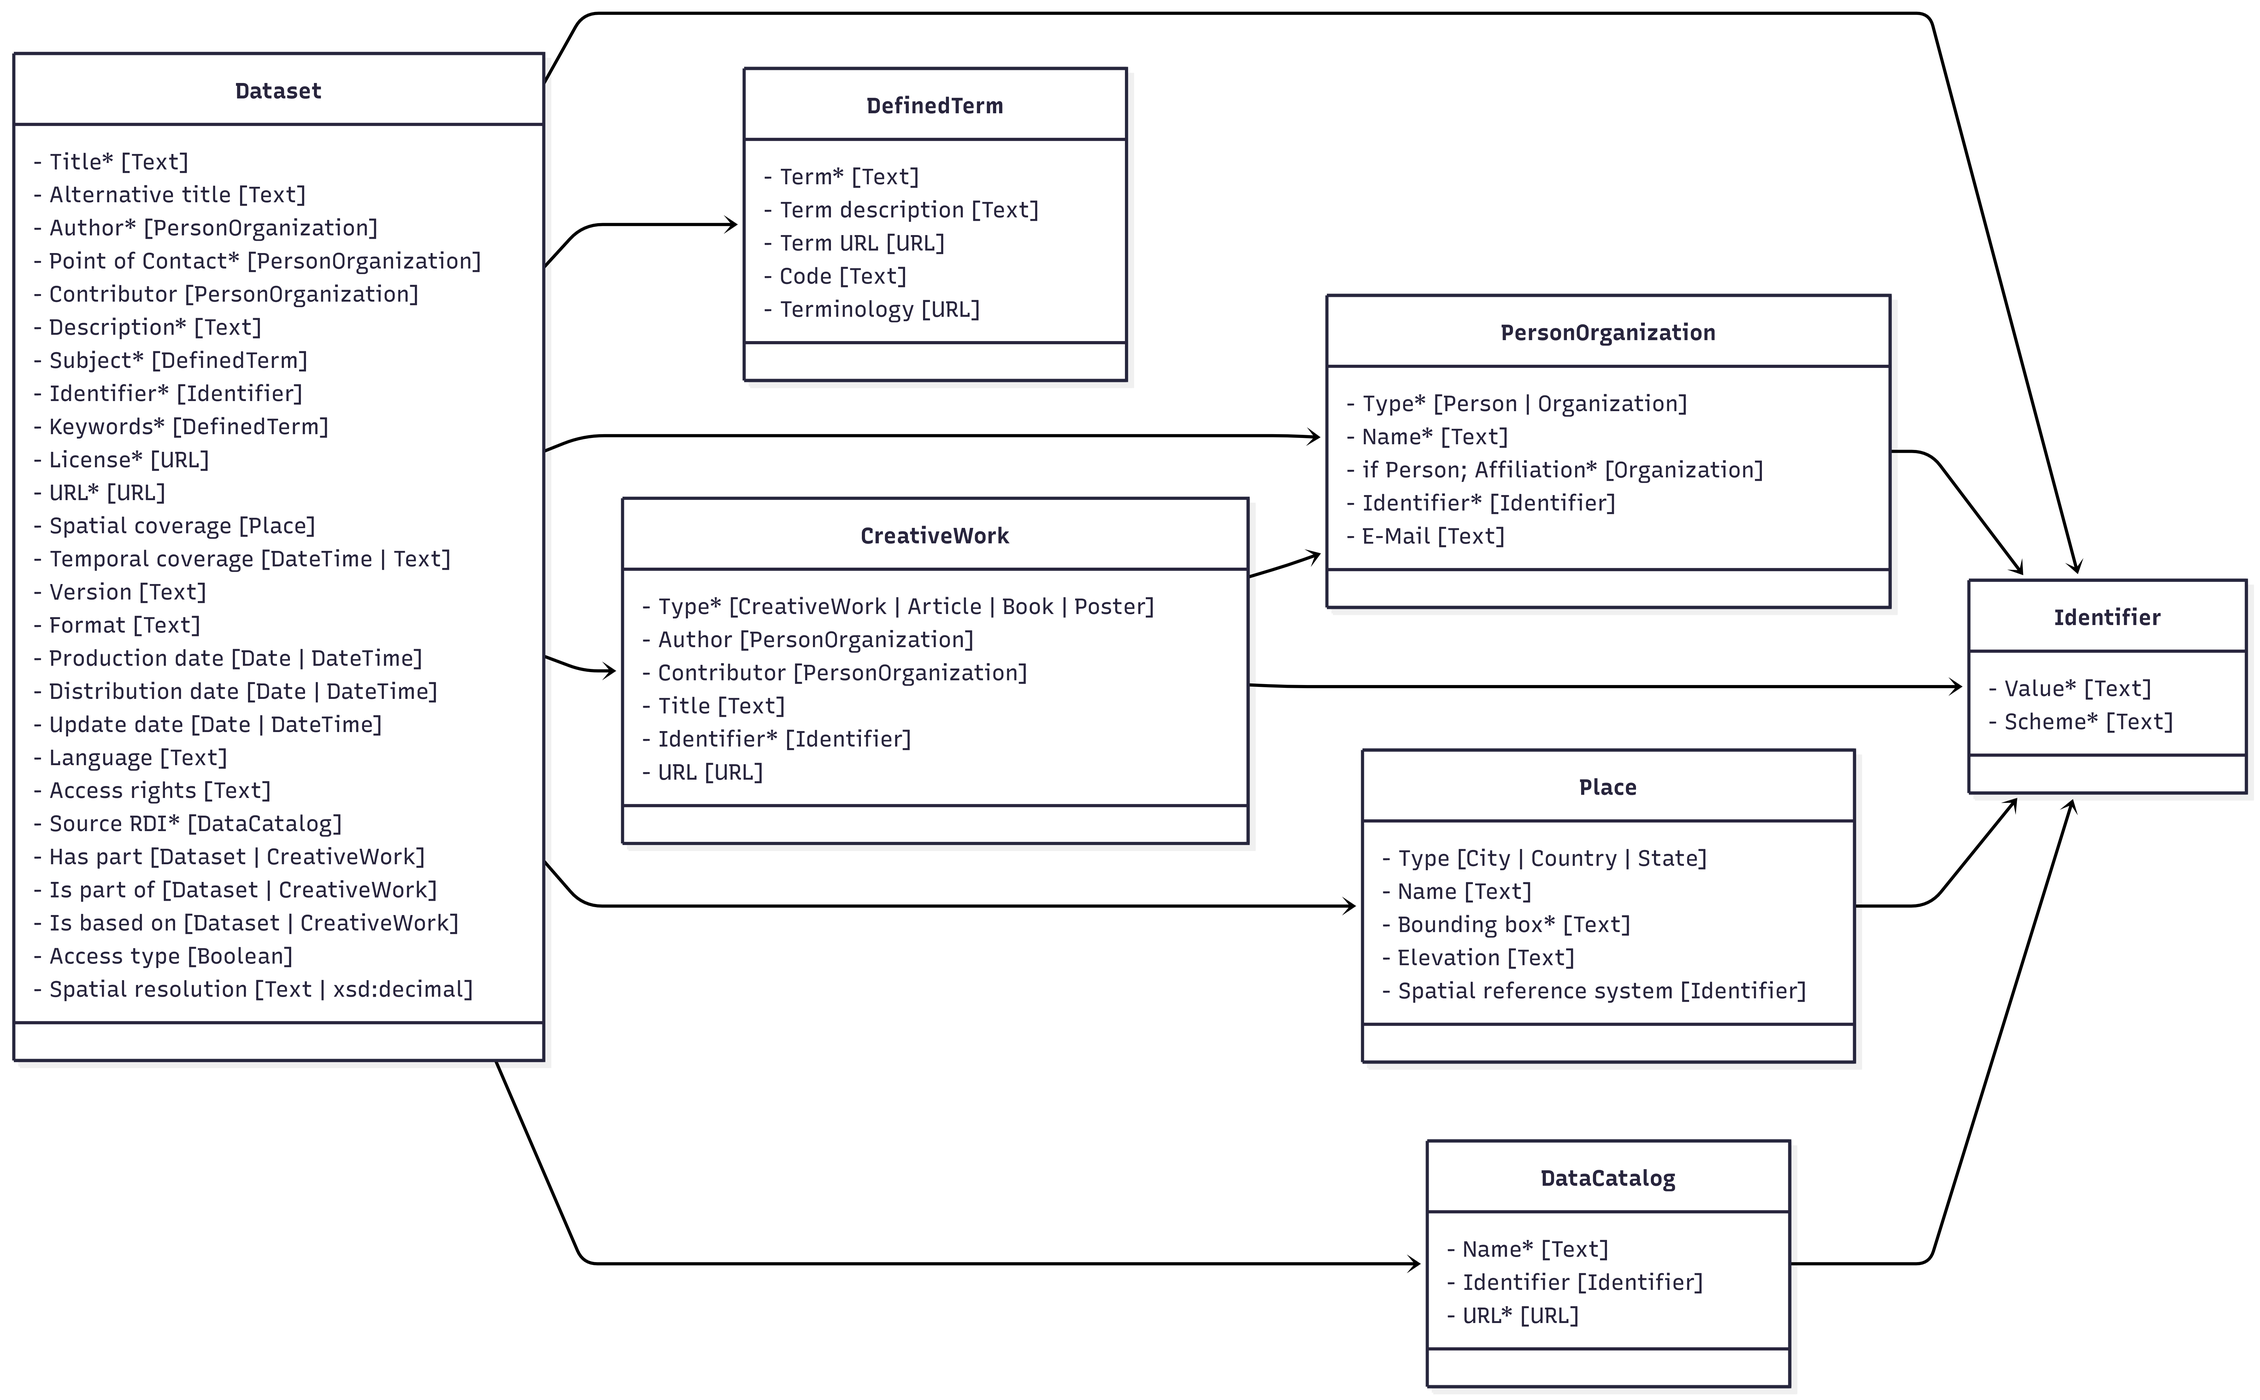
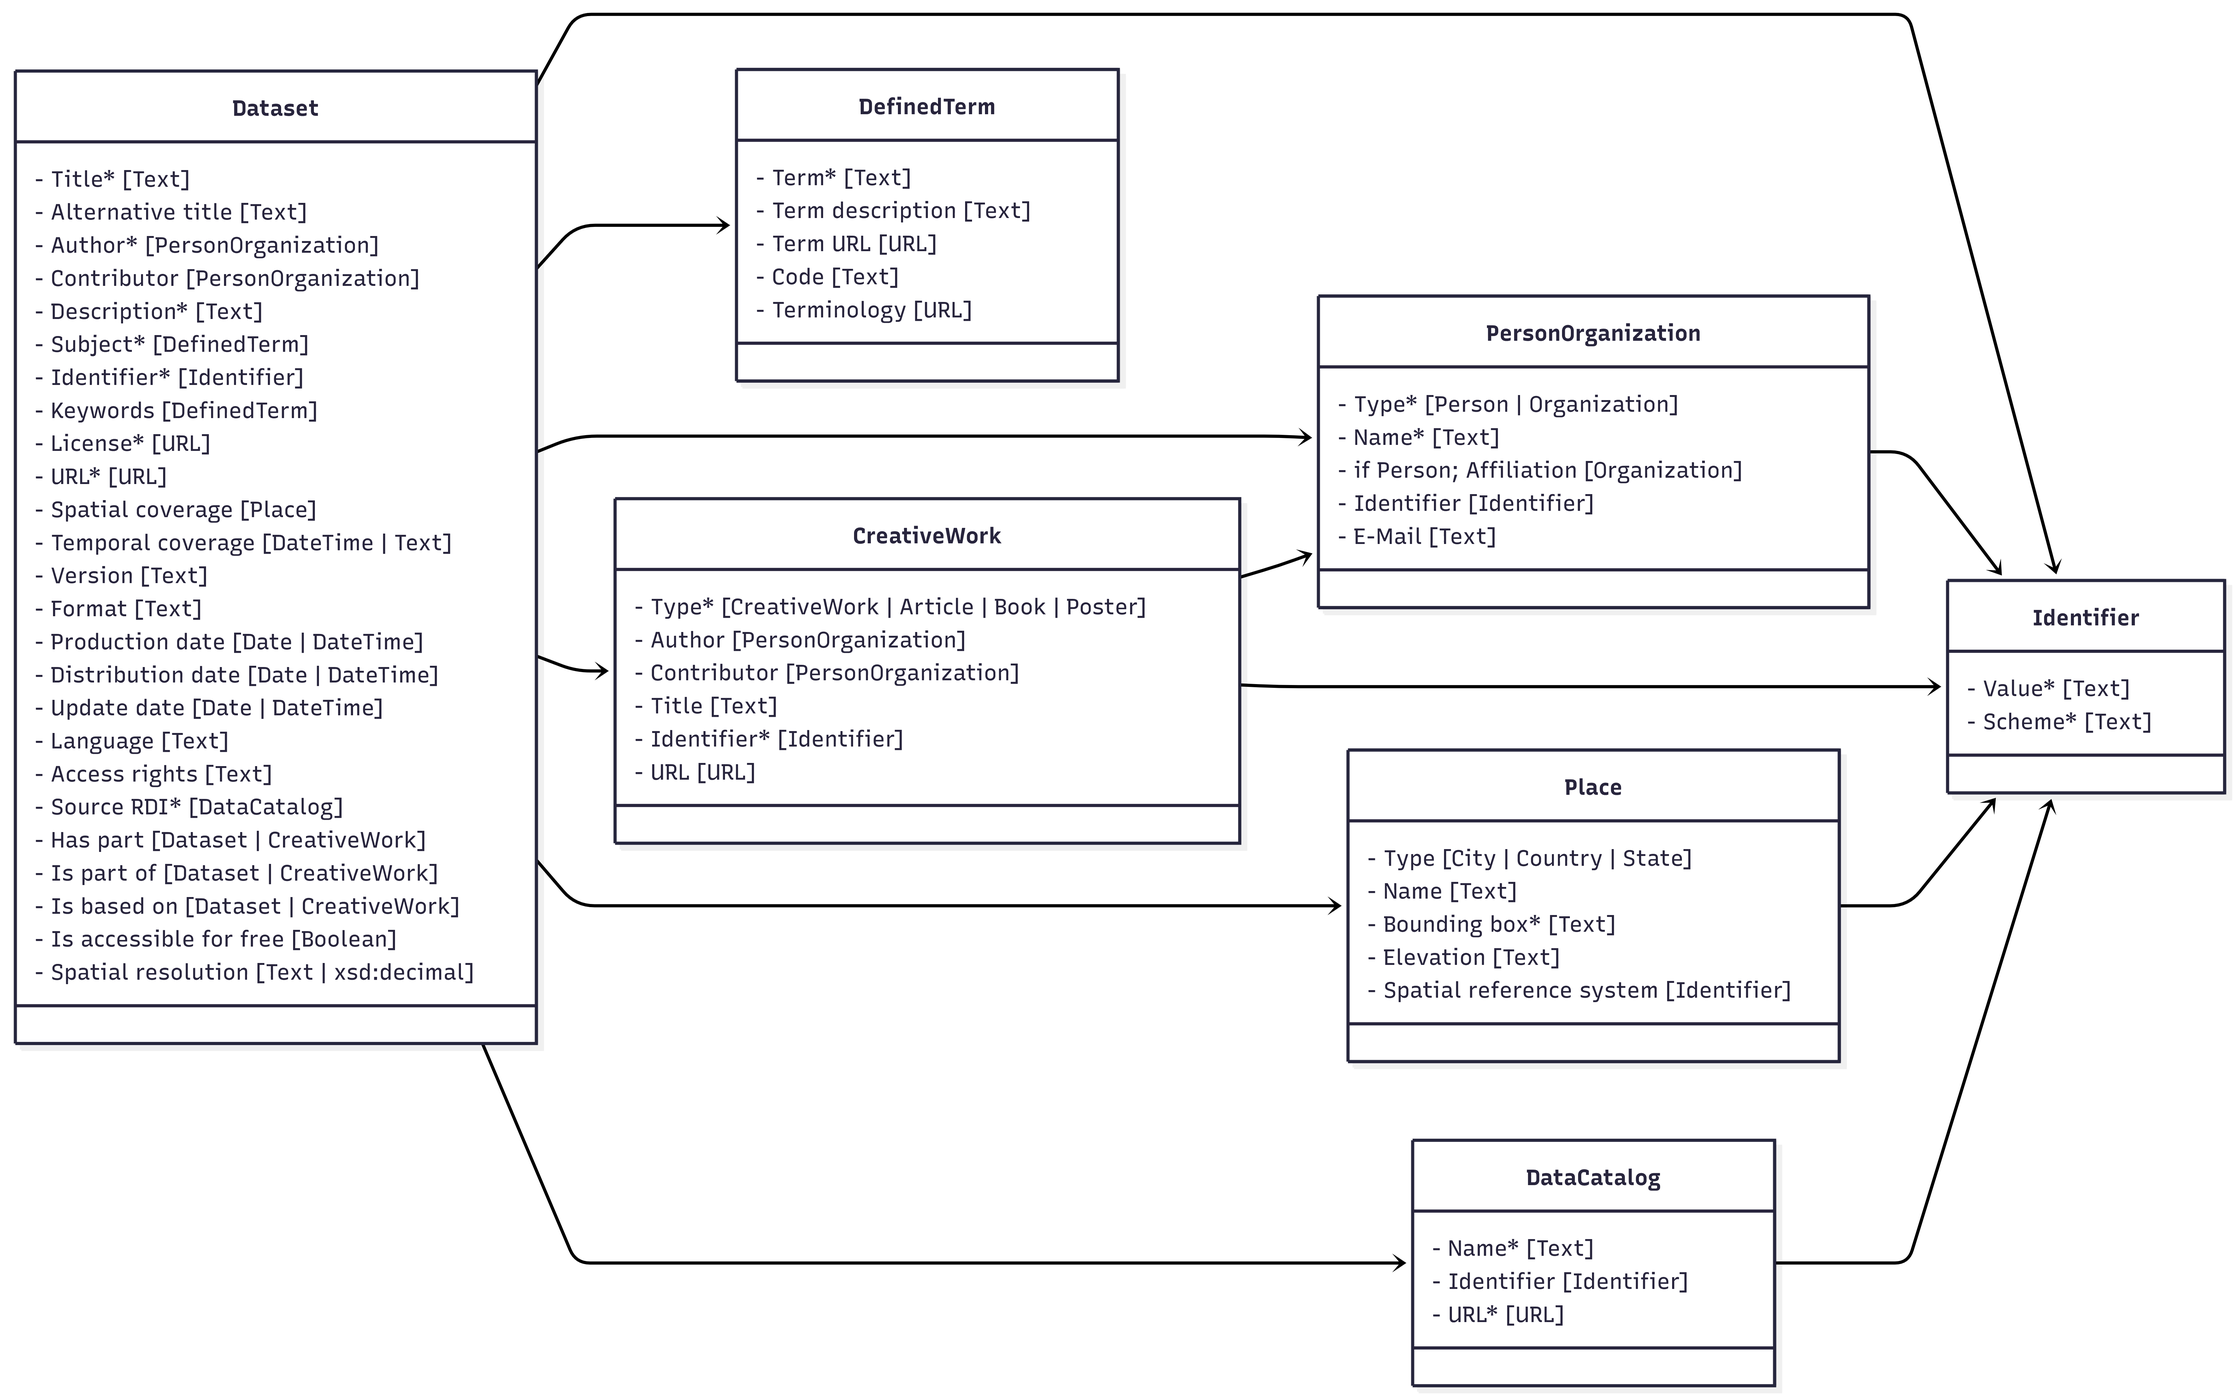
published Publication Metadata Set 1.0.1 and related material

diff --git a/docs/tech-guides/core_metadata_specification/index.en.md b/docs/tech-guides/core_metadata_specification/index.en.md
@@ -12,7 +12,7 @@ Domain specific metadata is expressed through the Agrischemas framework. It addi
 These two components of FAIRagros metadata approach define a Core Metadata Specification to make required information available for FAIRagro services such as the [FAIRagro Search Hub](https://search-hub.fairagro.net/){:target="_blank"} which is based on [Dataverse](https://dataverse.org/){:target="_blank"}. The Core Metadata Specification is harmonized with existing generic metadata standards as well as ongoing [NFDI](https://www.nfdi.de/){:target="_blank"} wide developments.
 
 ##  2. Publication Metadata Set
-*Version 1.0.0*; published on 2025-12-22
+*Version 1.0.1*; updated on 2025-07-31
 
 ![Publication Metadata Set Diagram](../../images/Publication_Metadata_Set_Diagram.png)
 /// caption
@@ -93,28 +93,7 @@ Adam Shepherd, Matthew B. Jones, Stephen Richard, Nicholas Jarboe, Dave Vieglais
 }
 ```
 
-#### 2.1.4 Point of Contact
-**Definition:** “The entity, e.g. a person or organization, that users of the Dataset can contact with questions.” (Definition taken from Dataverse)  
-**Cardinality:** 1-n  
-**Range:** Person/Organization  
-**Comment:**  [Schema.org](http://schema.org){:target="_blank"} doesn’t offer a fitting property or type to express this role. The [https://schema.org/ContactPoint](https://schema.org/ContactPoint){:target="_blank"} type and its related [https://schema.org/contactPoint](https://schema.org/contactPoint){:target="_blank"} are meant to express a contact point for a person/organization, not to express a person/organization as a contact point, as it is defined in Dataverse. To still model this information, at least one person/organization related to a Dataset as an author or contributor, needs to be additionally typed by adding an [https://schema.org/additionalType](https://schema.org/additionalType){:target="_blank"} property with the value “Contact Point” to the person/organization metadata object.
-
-**Representation:**
-```
-{
-	"@type":"https://schema.org/Person",
-	"https://schema.org/additionalType": "Contact Point"
-}
-```
-/
-```
-{
-  "@type": "https://schema.org/Organization",
-  "https://schema.org/additionalType": "Contact Point"
-}
-```
-
-#### 2.1.5 Contributor
+#### 2.1.4 Contributor
 **Definition:** “The entity, such as a person or organization, responsible for collecting, managing, or otherwise contributing to the development of the Dataset.” (Definition taken from Dataverse)  
 **Cardinality:** 0-n  
 **Range:** Person/Organization
@@ -136,7 +115,7 @@ Adam Shepherd, Matthew B. Jones, Stephen Richard, Nicholas Jarboe, Dave Vieglais
 }
 ```
 
-#### 2.1.6 Description
+#### 2.1.5 Description
 **Definition:** “A summary describing the purpose, nature, and scope of the Dataset.” (Definition taken from Dataverse)  
 **Cardinality:** 1-n  
 **Range:** Text
@@ -148,7 +127,7 @@ Adam Shepherd, Matthew B. Jones, Stephen Richard, Nicholas Jarboe, Dave Vieglais
 }
 ```
 
-#### 2.1.7 Subject
+#### 2.1.6 Subject
 **Definition:** “The area of study relevant to the Dataset.” (Definition taken from Dataverse)  
 **Cardinality:** 1-n  
 **Range:** DefinedTerm  
@@ -168,7 +147,7 @@ Adam Shepherd, Matthew B. Jones, Stephen Richard, Nicholas Jarboe, Dave Vieglais
 }
 ```
 
-#### 2.1.8 Identifier
+#### 2.1.7 Identifier
 **Definition:** “A unique identifier for the Dataset (e.g. producer's or repository's identifier).” (changed from DataVerse “otherId” definition)  
 **Cardinality:** 1-n  
 **Range:** Identifier  
@@ -183,9 +162,9 @@ Adam Shepherd, Matthew B. Jones, Stephen Richard, Nicholas Jarboe, Dave Vieglais
 }
 ```
 
-#### 2.1.9 Keyword(s)
+#### 2.1.8 Keyword(s)
 **Definition:** “A key term that describes an important aspect of the Dataset and information about any controlled vocabulary used.” (Definition taken from Dataverse)  
-**Cardinality:** 1-n  
+**Cardinality:** 0-n  
 **Range:** DefinedTerm
 
 **Representation:**
@@ -197,7 +176,7 @@ Adam Shepherd, Matthew B. Jones, Stephen Richard, Nicholas Jarboe, Dave Vieglais
 }
 ```
 
-#### 2.1.10 License
+#### 2.1.9 License
 **Definition:** “License defining the rights to (re-)use the dataset.” (Definition taken from Dataverse)  
 **Cardinality:** 1  
 **Range:** URL  
@@ -210,7 +189,7 @@ Adam Shepherd, Matthew B. Jones, Stephen Richard, Nicholas Jarboe, Dave Vieglais
 }
 ```
 
-#### 2.1.11 URL
+#### 2.1.10 URL
 **Definition:** “An URL where one can view or access the data in the Dataset, e.g. the webpage of a Research Data Infrastructure.” (changed from DataVerse "alternativeURL")  
 **Cardinality:** 1  
 **Range:** URL
@@ -222,7 +201,7 @@ Adam Shepherd, Matthew B. Jones, Stephen Richard, Nicholas Jarboe, Dave Vieglais
 }
 ```
 
-#### 2.1.12 Spatial coverage
+#### 2.1.11 Spatial coverage
 **Definition:** “The spatialCoverage of a Dataset indicates the place(s) which are the focus of the content.” (Definition changed from Schema.org "[https://schema.org/spatialCoverage](https://schema.org/spatialCoverage){:target="_blank"}")  
 **Cardinality:** 0-n  
 **Range:** Place
@@ -236,7 +215,7 @@ Adam Shepherd, Matthew B. Jones, Stephen Richard, Nicholas Jarboe, Dave Vieglais
 }
 ```
 
-#### 2.1.13 Temporal coverage
+#### 2.1.12 Temporal coverage
 **Definition:** “The temporalCoverage of a Dataset indicates the period that the content applies to, i.e. that it describes, either as a DateTime or as a textual string indicating a time period in [ISO 8601 time interval format](https://en.wikipedia.org/wiki/ISO_8601#Time_intervals){:target="_blank"}. Open-ended date ranges can be written with ".." in place of the end date. For example, "2015-11/.." indicates a range beginning in November 2015 and with no specified final date.” (Definition changed from [https://schema.org/temporalCoverage](https://schema.org/temporalCoverage){:target="_blank"})  
 **Cardinality:** 0-1  
 **Range:** Text / DateTime
@@ -248,7 +227,7 @@ Adam Shepherd, Matthew B. Jones, Stephen Richard, Nicholas Jarboe, Dave Vieglais
 }
 ```
 
-#### 2.1.14 Version
+#### 2.1.13 Version
 **Definition:** “The version number of the dataset.”  
 **Cardinality:** 0-1  
 **Range:** Text
@@ -260,7 +239,7 @@ Adam Shepherd, Matthew B. Jones, Stephen Richard, Nicholas Jarboe, Dave Vieglais
 }
 ```
 
-#### 2.1.15 Format
+#### 2.1.14 Format
 **Definition:** “The file format(s) of the dataset.”  
 **Cardinality:** 0-n  
 **Range:** Text
@@ -272,7 +251,7 @@ Adam Shepherd, Matthew B. Jones, Stephen Richard, Nicholas Jarboe, Dave Vieglais
 }
 ```
 
-#### 2.1.16 Production date
+#### 2.1.15 Production date
 **Definition:** “The date when the data were produced (not distributed, published, or archived).” (Definition taken from Dataverse)  
 **Cardinality:** 0-1  
 **Range:** Date or DateTime (ISO 8601)
@@ -284,7 +263,7 @@ Adam Shepherd, Matthew B. Jones, Stephen Richard, Nicholas Jarboe, Dave Vieglais
 }
 ```
 
-#### 2.1.17 Distribution date
+#### 2.1.16 Distribution date
 **Definition:** “The date when the Dataset was made available for distribution/presentation.” (Definition taken from Dataverse)  
 **Cardinality:** 0-1  
 **Range:** Date or DateTime (ISO 8601)
@@ -296,7 +275,7 @@ Adam Shepherd, Matthew B. Jones, Stephen Richard, Nicholas Jarboe, Dave Vieglais
 }
 ```
 
-#### 2.1.18 Update date
+#### 2.1.17 Update date
 **Definition:** “The date on which the Dataset was most recently modified or when the item's entry was modified.” (Definition changed from [https://schema.org/dateModified](https://schema.org/dateModified){:target="_blank"})  
 **Cardinality:** 0-1  
 **Range:** Date or DateTime (ISO 8601)
@@ -308,7 +287,7 @@ Adam Shepherd, Matthew B. Jones, Stephen Richard, Nicholas Jarboe, Dave Vieglais
 }
 ```
 
-#### 2.1.19 Language
+#### 2.1.18 Language
 **Definition:** “A language that the Dataset's files is written in.” (Definition taken from Dataverse)  
 **Cardinality:** 0-n  
 **Range:** Text  
@@ -321,7 +300,7 @@ Adam Shepherd, Matthew B. Jones, Stephen Richard, Nicholas Jarboe, Dave Vieglais
 }
 ```
 
-#### 2.1.20 Access rights
+#### 2.1.19 Access rights
 **Definition:** “Information about who accesses the resource or an indication of its security status.” (taken from [http://purl.org/dc/terms/accessRights](http://purl.org/dc/terms/accessRights){:target="_blank"})  
 **Cardinality:** 0-n  
 **Range:** Text  
@@ -334,7 +313,7 @@ Adam Shepherd, Matthew B. Jones, Stephen Richard, Nicholas Jarboe, Dave Vieglais
 }
 ```
 
-#### 2.1.21 Source RDI
+#### 2.1.20 Source RDI
 **Definition:** “The original Research Data Infrastructure that the dataset was published by.”  
 **Cardinality:** 1  
 **Range:** DataCatalog
@@ -348,7 +327,7 @@ Adam Shepherd, Matthew B. Jones, Stephen Richard, Nicholas Jarboe, Dave Vieglais
 }
 ```
 
-#### 2.1.22 Has part
+#### 2.1.21 Has part
 **Definition:** “Indicates a Dataset or CreativeWork that is part of this item.” (Definition changed from [https://schema.org/hasPart](https://schema.org/hasPart){:target="_blank"})  
 **Cardinality:** 0-n  
 **Range:** Dataset/CreativeWork
@@ -370,7 +349,7 @@ Adam Shepherd, Matthew B. Jones, Stephen Richard, Nicholas Jarboe, Dave Vieglais
 }
 ```
 
-#### 2.1.23 Is part of
+#### 2.1.22 Is part of
 **Definition:** “Indicates a Dataset or CreativeWork that this item.” (Definition changed from [https://schema.org/isPartOf](https://schema.org/isPartOf){:target="_blank"})  
 **Cardinality:** 0-n  
 **Range:** Dataset/CreativeWork
@@ -392,7 +371,7 @@ Adam Shepherd, Matthew B. Jones, Stephen Richard, Nicholas Jarboe, Dave Vieglais
 }
 ```
 
-#### 2.1.24 Is based on
+#### 2.1.23 Is based on
 **Definition:** “A resource from which this Dataset is derived or from which it is a modification or adaptation.” (Definition changed from [https://schema.org/isBasedOn](https://schema.org/isBasedOn){:target="_blank"})  
 **Cardinality:** 0-n  
 **Range:** Dataset/CreativeWork
@@ -414,7 +393,7 @@ Adam Shepherd, Matthew B. Jones, Stephen Richard, Nicholas Jarboe, Dave Vieglais
 }
 ```
 
-#### 2.1.25 Access type
+#### 2.1.24 Is accessible for free
 **Definition:** “A flag to signal that the item, event, or place is accessible for free.” (Definition taken from [https://schema.org/isAccessibleForFree](https://schema.org/isAccessibleForFree){:target="_blank"})  
 **Cardinality:** 0-1  
 **Range:** Boolean
@@ -432,7 +411,7 @@ Adam Shepherd, Matthew B. Jones, Stephen Richard, Nicholas Jarboe, Dave Vieglais
 }
 ```
 
-#### 2.1.26 Spatial resolution
+#### 2.1.25 Spatial resolution
 **Definition:** “Minimum spatial separation resolvable in a dataset, measured in meters.” (Definition taken from DCAT)  
 **Cardinality:** 0-1  
 **Range:** Text / [xsd:decimal](https://www.w3.org/TR/xmlschema11-2/#decimal){:target="_blank"}
@@ -481,7 +460,7 @@ Adam Shepherd, Matthew B. Jones, Stephen Richard, Nicholas Jarboe, Dave Vieglais
 ```
 #### 2.2.3 Affiliation (Person)
 **Definition:** “The name of the organization the person is  affiliated with, e.g. an organization's name.” (Definition changed from Dataverse)  
-**Cardinality:** 1  
+**Cardinality:** 0-1
 **Range:** Organization
 
 **Representation:**
@@ -495,7 +474,7 @@ Adam Shepherd, Matthew B. Jones, Stephen Richard, Nicholas Jarboe, Dave Vieglais
 
 #### 2.2.4 Identifier
 **Definition:** “Uniquely identifies a person/organization when paired with an identifier type.” (changed from DataVerse)  
-**Cardinality:** 1  
+**Cardinality:** 0-1  
 **Range:** Identifier
 
 **Representation:**

diff --git a/docs/tech-guides/core_metadata_specification/archive/publication_metadata_set/index.de.md b/docs/tech-guides/core_metadata_specification/archive/publication_metadata_set/index.de.md
@@ -6,7 +6,7 @@ The format is based on [Keep a Changelog](https://keepachangelog.com/en/2.0.0/),
 
 ## [Unreleased]
 
-## [1.0.1] - 2026-07-30
+## [1.0.1] - 2026-07-31
 
 ### Changed
 - Changed name of property "Access type" to fit with Schema.org name of the property.
@@ -22,17 +22,3 @@ The format is based on [Keep a Changelog](https://keepachangelog.com/en/2.0.0/),
 
 ### Added
 - Initial version released via FAIRagro Knowledge Base (https://knowledgebase.fairagro.net/en/tech-guides/core_metadata_specification/#2-publication-metadata-set)
-
----
-# <small>Contributors</small>
-The Publication Metadata Set and Agrischemas are collaborative efforts within the FAIRagro consortium and adjacent communities. Contributors include participants from FAIRagro Task Areas [3](https://fairagro.net/fairagro_team_category/ta-3/){:target="_blank"}, [4](https://fairagro.net/fairagro_team_category/ta-4/){:target="_blank"} and the [“Agri-schemas” project](https://github.com/Rothamsted/agri-schemas/tree/master){:target="_blank"} for Agrischemas.
-
-For feedback contact Gabriel Schneider ([schneiderg@zbmed.de](mailto:schneiderg@zbmed.de){:target="_blank"}) or the [Agrischemas mailinglist](mailto:agri-wg-bioschemas@listserv.dfn.de){:target="_blank"}.
-
-(*Last Update: 2026-07-30*)
-
----
-#<small>How to cite this page?</small>
-Schneider, G., Jung, J., Reinosch, N. & Martini, D. *et al.* (2025). *FAIRagro Core Metadata Specification*. FAIRagro Knowledge Base. [https://knowledgebase.fairagro.net/en/tech-guides/core_metadata_specification/](https://knowledgebase.fairagro.net/en/tech-guides/core_metadata_specification/). Under: [CC BY 4.0](https://creativecommons.org/licenses/by/4.0/){:target="_blank"}.  
-
-[![CC BY Logo](../../images/cc-by.png)](https://creativecommons.org/licenses/by/4.0/){:target="_blank"}

diff --git a/docs/tech-guides/core_metadata_specification/archive/publication_metadata_set/index.en.md b/docs/tech-guides/core_metadata_specification/archive/publication_metadata_set/index.en.md
@@ -6,7 +6,7 @@ The format is based on [Keep a Changelog](https://keepachangelog.com/en/2.0.0/),
 
 ## [Unreleased]
 
-## [1.0.1] - 2026-07-30
+## [1.0.1] - 2026-07-31
 
 ### Changed
 - Changed name of property "Access type" to fit with Schema.org name of the property.
@@ -22,17 +22,3 @@ The format is based on [Keep a Changelog](https://keepachangelog.com/en/2.0.0/),
 
 ### Added
 - Initial version released via FAIRagro Knowledge Base (https://knowledgebase.fairagro.net/en/tech-guides/core_metadata_specification/#2-publication-metadata-set)
-
----
-# <small>Contributors</small>
-The Publication Metadata Set and Agrischemas are collaborative efforts within the FAIRagro consortium and adjacent communities. Contributors include participants from FAIRagro Task Areas [3](https://fairagro.net/fairagro_team_category/ta-3/){:target="_blank"}, [4](https://fairagro.net/fairagro_team_category/ta-4/){:target="_blank"} and the [“Agri-schemas” project](https://github.com/Rothamsted/agri-schemas/tree/master){:target="_blank"} for Agrischemas.
-
-For feedback contact Gabriel Schneider ([schneiderg@zbmed.de](mailto:schneiderg@zbmed.de){:target="_blank"}) or the [Agrischemas mailinglist](mailto:agri-wg-bioschemas@listserv.dfn.de){:target="_blank"}.
-
-(*Last Update: 2026-07-30*)
-
----
-#<small>How to cite this page?</small>
-Schneider, G., Jung, J., Reinosch, N. & Martini, D. *et al.* (2025). *FAIRagro Core Metadata Specification*. FAIRagro Knowledge Base. [https://knowledgebase.fairagro.net/en/tech-guides/core_metadata_specification/](https://knowledgebase.fairagro.net/en/tech-guides/core_metadata_specification/). Under: [CC BY 4.0](https://creativecommons.org/licenses/by/4.0/){:target="_blank"}.  
-
-[![CC BY Logo](../../images/cc-by.png)](https://creativecommons.org/licenses/by/4.0/){:target="_blank"}
